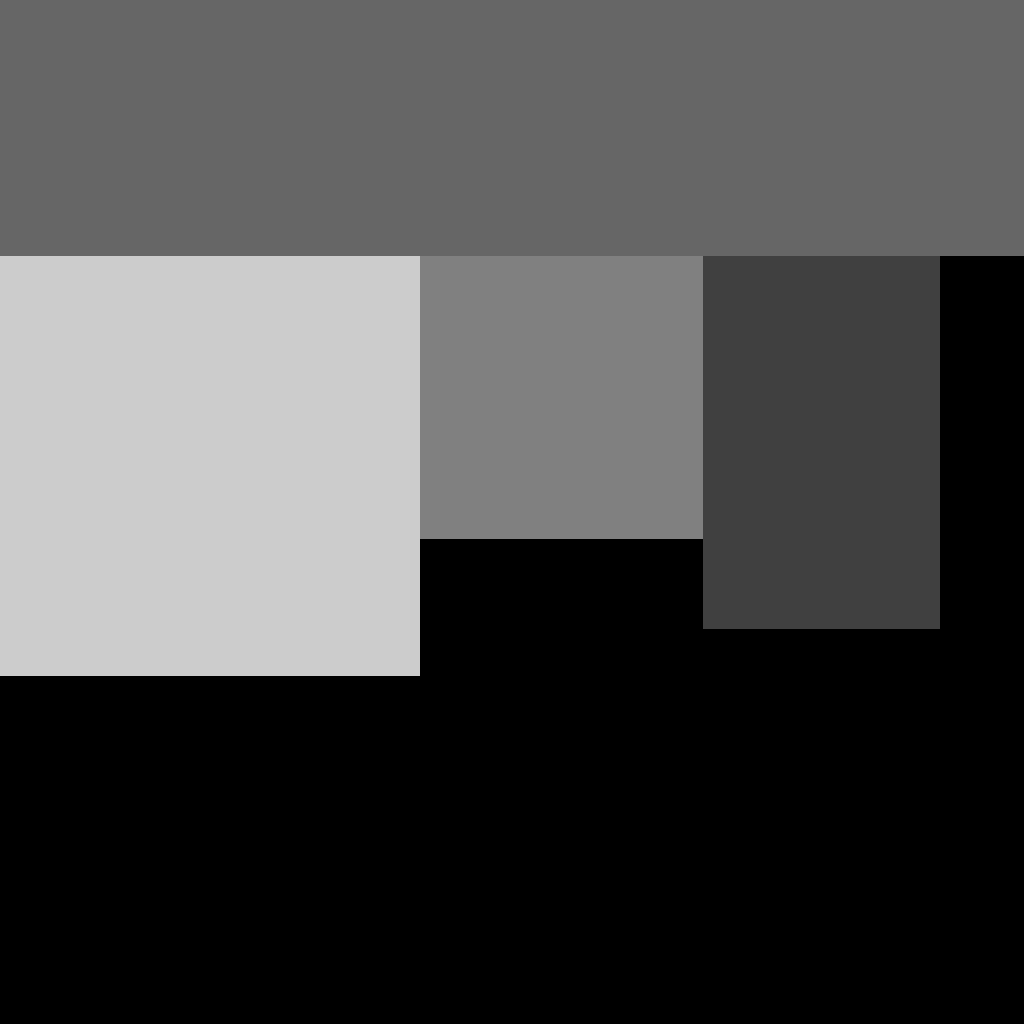
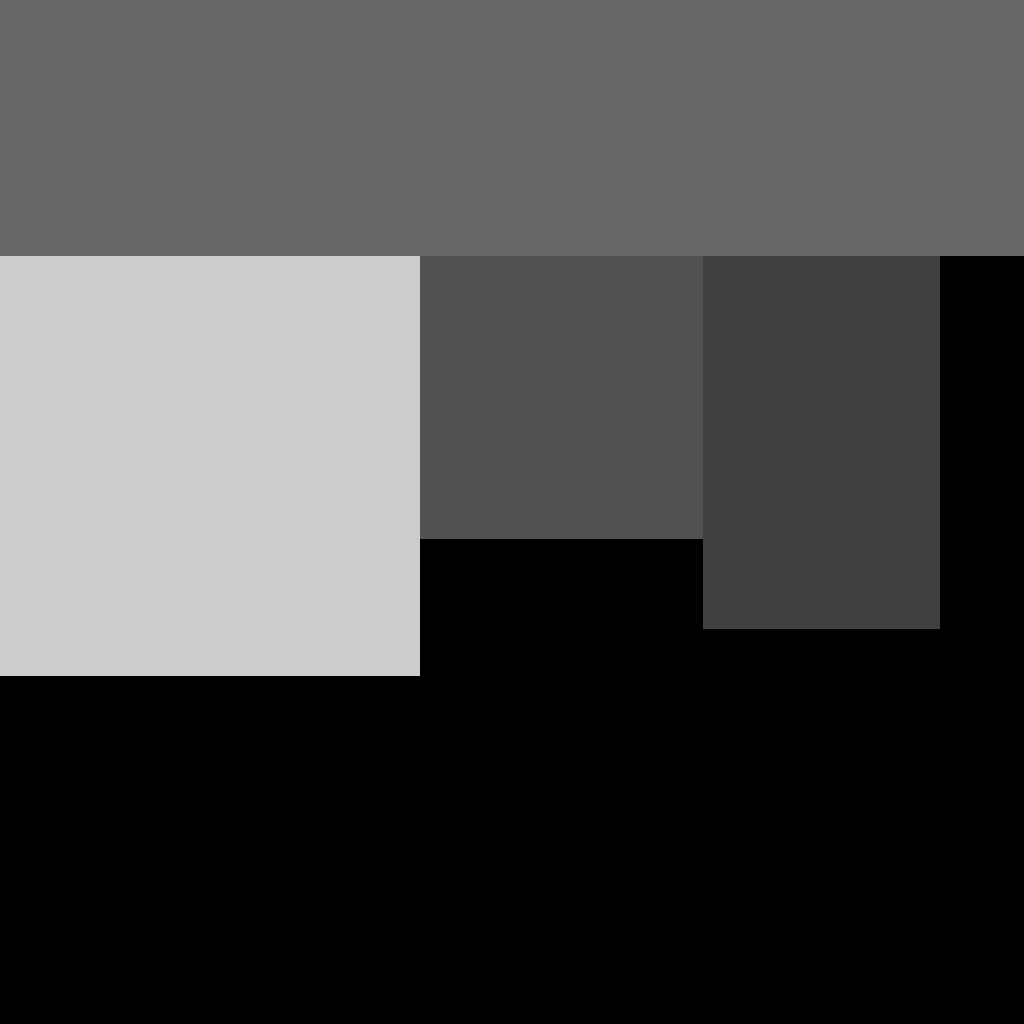
Continue primary color customization

Changed region(s): [[0.4062, 0.25, 0.6875, 0.5312]]

diff --git a/app/src/main/java/io/github/formular_team/formular/RaceActivity.java b/app/src/main/java/io/github/formular_team/formular/RaceActivity.java
@@ -6,13 +6,11 @@ import android.os.Bundle;
 import android.preference.PreferenceManager;
 import android.support.annotation.StringRes;
 import android.util.Log;
-import android.view.Gravity;
 import android.view.MotionEvent;
 import android.view.View;
 import android.view.animation.AlphaAnimation;
 import android.view.animation.Animation;
 import android.widget.TextView;
-import android.widget.Toast;
 
 import com.google.ar.core.Anchor;
 import com.google.ar.core.Frame;
@@ -23,7 +21,7 @@ import com.google.ar.sceneform.AnchorNode;
 import com.google.ar.sceneform.ArSceneView;
 import com.google.ar.sceneform.Node;
 import com.google.ar.sceneform.math.Matrix;
-import com.google.ar.sceneform.math.Vector3;
+import com.google.ar.sceneform.rendering.Color;
 import com.google.ar.sceneform.ux.ArFragment;
 
 import java.util.List;
@@ -63,8 +61,6 @@ import io.github.formular_team.formular.core.tracing.SimpleStepFunction;
 public class RaceActivity extends FormularActivity {
     private static final String TAG = RaceActivity.class.getSimpleName();
 
-    private static final int KART_BODY = 0, KART_WHEEL = 1;
-
     private KartNodeFactory factory;
 
     private Node courseAnchor;
@@ -81,20 +77,13 @@ public class RaceActivity extends FormularActivity {
 
     private ArFragment arFragment;
 
-    public void onException(final int id, final Throwable throwable) {
-        final Toast toast = Toast.makeText(this, "Unable to load renderable: " + id, Toast.LENGTH_LONG);
-        toast.setGravity(Gravity.CENTER, 0, 0);
-        toast.show();
-        Log.e(TAG, "Unable to load renderable", throwable);
-    }
-
     @Override
     public void onCreate(final Bundle savedInstanceState) {
         super.onCreate(savedInstanceState);
         this.setContentView(R.layout.activity_race);
         final SharedPreferences prefs = PreferenceManager.getDefaultSharedPreferences(this);
         final String namePref = prefs.getString("prefName", "Player 1");
-        final int colorPref = prefs.getInt("prefColor", 0xFFFF007F);
+        final int colorPref = prefs.getInt("primaryColor", 0xFFFF007F);
         this.user = User.create(namePref, colorPref);
         this.lapView = this.findViewById(R.id.lap);
         this.positionView = this.findViewById(R.id.position);
@@ -138,14 +127,14 @@ public class RaceActivity extends FormularActivity {
         if (arFrame == null) {
             throw new AssertionError();
         }
-        {
-            final AnchorNode aa = new AnchorNode(hitResult.createAnchor());
-            final KartNode kart = this.factory.create(new KartModel(new SimpleGameModel(), 0, KartDefinition.createKart2()));
-            aa.setLocalScale(Vector3.one().scaled(0.3F));
-            aa.addChild(kart);
-            view.getScene().addChild(aa);
-            if (true)return;
-        }
+//        {
+//            final AnchorNode aa = new AnchorNode(hitResult.createAnchor());
+//            final KartNode kart = this.factory.create(new KartModel(new SimpleGameModel(), 0, KartDefinition.createKart2()));
+//            aa.setLocalScale(Vector3.one().scaled(0.3F));
+//            aa.addChild(kart);
+//            view.getScene().addChild(aa);
+//            if (true)return;
+//        }
         final float captureRange = 0.25F;
         final int captureSize = 200;
         final Bitmap rectifiedCapture;
@@ -361,7 +350,7 @@ public class RaceActivity extends FormularActivity {
                 for (final Driver driver : this.game.getDrivers()) {
 //                    this.factory.create(this.game, driver.getVehicle())
                     final KartNode kart = this.factory.create(driver.getVehicle());
-//                    kart.setColor(new Color(0xFF000000 | driver.getUser().getColor()));
+                    kart.setColor(new Color(driver.getUser().getColor()));
                     LabelFactory.create(this, driver.getUser() == this.user ? "YOU" : driver.getUser().getName(), 1.5F)
                             .thenAccept(label -> {
                                 label.setLocalPosition(com.google.ar.sceneform.math.Vector3.up().scaled(1.8F));

diff --git a/app/src/main/java/io/github/formular_team/formular/ShopActivity.java b/app/src/main/java/io/github/formular_team/formular/ShopActivity.java
@@ -1,7 +1,9 @@
 package io.github.formular_team.formular;
 
 import android.app.AlertDialog;
+import android.content.SharedPreferences;
 import android.os.Bundle;
+import android.preference.PreferenceManager;
 import android.widget.SeekBar;
 
 import com.google.ar.core.exceptions.CameraNotAvailableException;
@@ -21,6 +23,7 @@ import io.github.formular_team.formular.ar.KartNode;
 import io.github.formular_team.formular.core.KartDefinition;
 import io.github.formular_team.formular.core.KartModel;
 import io.github.formular_team.formular.core.SimpleGameModel;
+import io.github.formular_team.formular.core.math.Mth;
 
 public final class ShopActivity extends FormularActivity {
     private SceneView sceneView;
@@ -36,22 +39,28 @@ public final class ShopActivity extends FormularActivity {
         this.sceneView = this.findViewById(R.id.ar_scene);
         this.slider = this.findViewById(R.id.hue);
         this.slider.setOnSeekBarChangeListener(new SeekBar.OnSeekBarChangeListener() {
+            private int getArgb(final SeekBar seekBar) {
+                final double[] c = HUSLColorConverter.hsluvToRgb(new double[] { seekBar.getProgress() / 100.0F * 360.0F, 85.0F, 30.0F });
+                return 0xFF000000 |
+                    Mth.clamp((int) (c[0] * 0xFF), 0x00, 0xFF) << 16 |
+                    Mth.clamp((int) (c[1] * 0xFF), 0x00, 0xFF) << 8 |
+                    Mth.clamp((int) (c[2] * 0xFF), 0x00, 0xFF);
+            }
+
             @Override
             public void onProgressChanged(final SeekBar seekBar, final int progress, final boolean fromUser) {
                 if (ShopActivity.this.kart != null) {
-                    final double[] rgb = HUSLColorConverter.hsluvToRgb(new double[] { progress / 100.0F * 360.0F, 85.0F, 30.0F });
-                    ShopActivity.this.kart.setColor(new Color((float) rgb[0], (float) rgb[1], (float) rgb[2]));
+                    ShopActivity.this.kart.setColor(new Color(this.getArgb(seekBar)));
                 }
             }
 
             @Override
-            public void onStartTrackingTouch(final SeekBar seekBar) {
-
-            }
+            public void onStartTrackingTouch(final SeekBar seekBar) {}
 
             @Override
             public void onStopTrackingTouch(final SeekBar seekBar) {
-
+                final SharedPreferences settings = PreferenceManager.getDefaultSharedPreferences(ShopActivity.this);
+                settings.edit().putInt("primaryColor", this.getArgb(seekBar)).apply();
             }
         });
         final WeakOptional<ShopActivity> act = WeakOptional.of(this);
@@ -104,8 +113,10 @@ public final class ShopActivity extends FormularActivity {
             .thenCombine(SimpleKartNodeFactory.create(this, R.raw.kart_body, R.raw.kart_wheel_front, R.raw.kart_wheel_rear), (platter, factory) -> {
                 act.ifPresent(activity -> {
                     final KartNode kart = factory.create(new KartModel(new SimpleGameModel(), 0, KartDefinition.createKart2()));
+                    final SharedPreferences settings = PreferenceManager.getDefaultSharedPreferences(ShopActivity.this);
+                    final int argb = settings.getInt("primaryColor", 0);
+                    kart.setColor(new Color(argb));
                     activity.kart = kart;
-                    activity.slider.setProgress(30);
                     platter.addChild(kart);
                 });
                 return null;
